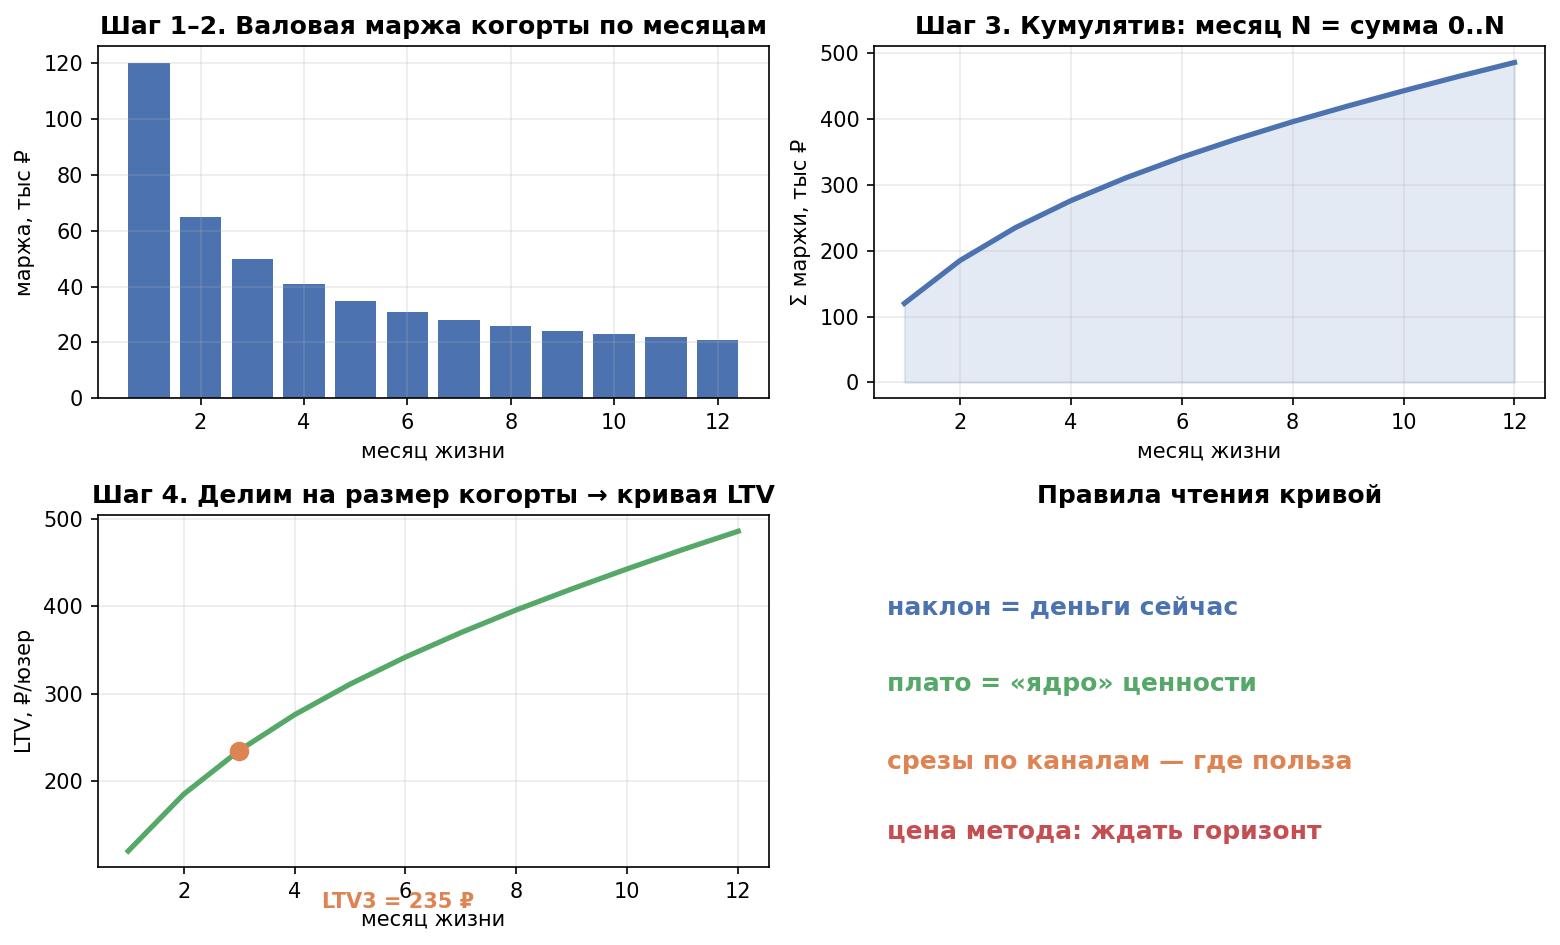
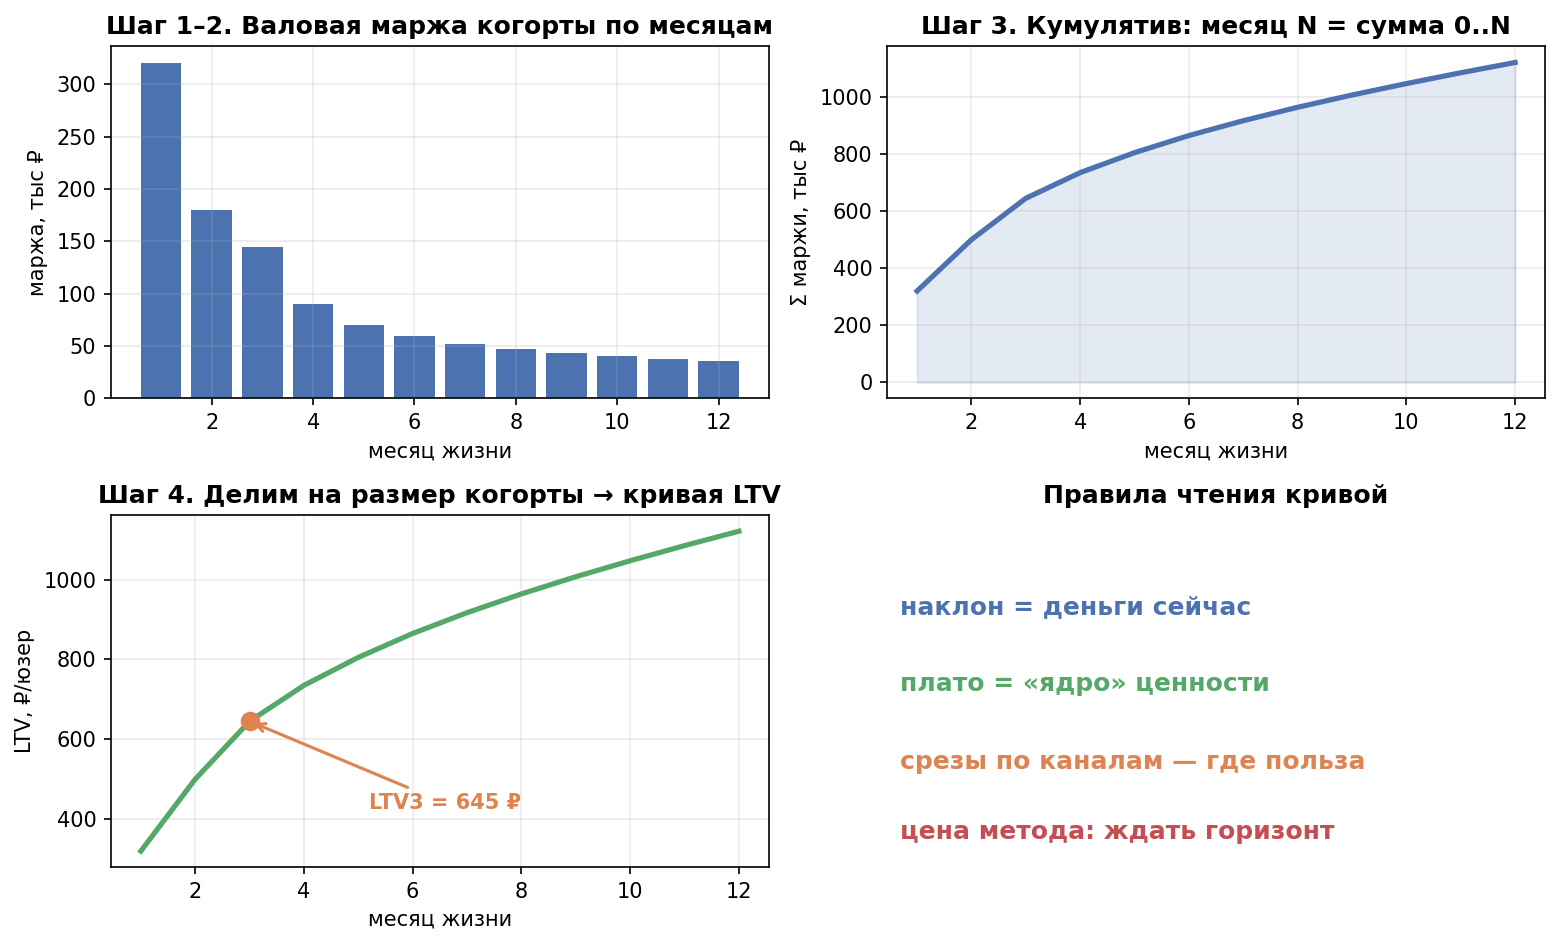
fix(LTV): согласовать числа когортных шагов с рассказом (LTV3=645, LTV12~1120) и убрать наложение аннотации на ось

diff --git a/Драфт/маркетинговая-аналитика/course/modules/M2/make_ltv_story_visuals.py b/Драфт/маркетинговая-аналитика/course/modules/M2/make_ltv_story_visuals.py
@@ -104,7 +104,7 @@ fig.tight_layout(); save(fig, "ltv_story_04_base_vs_cohort.png")
 # 5. Когортный метод за 4 шага
 # ============================================================
 fig, axes = plt.subplots(2, 2, figsize=(10.5, 6.4))
-profit_m = np.array([120, 65, 50, 41, 35, 31, 28, 26, 24, 23, 22, 21])  # тыс ₽ маржи когорты
+profit_m = np.array([320, 180, 145, 90, 70, 60, 52, 47, 43, 40, 38, 36])  # тыс ₽ маржи когорты (LTV3=645, LTV12≈1120)
 n = 1000
 a = axes[0, 0]
 a.bar(np.arange(1, 13), profit_m, color=C_MAIN)
@@ -119,8 +119,9 @@ b.set_xlabel("месяц жизни"); b.set_ylabel("Σ маржи, тыс ₽")
 c = axes[1, 0]
 c.plot(np.arange(1, 13), cum / n * 1000, lw=2.5, color=C_TRUE)
 c.scatter([3], [cum[2] / n * 1000], s=70, color=C_ACC, zorder=5)
-c.annotate(f"LTV3 = {cum[2]} ₽", (3, cum[2]), xytext=(4.5, cum[2] - 180),
-           color=C_ACC, fontweight="bold", fontsize=10)
+c.annotate(f"LTV3 = {cum[2]} ₽", xy=(3, cum[2]), xytext=(5.2, cum[2] - 220),
+           color=C_ACC, fontweight="bold", fontsize=10,
+           arrowprops=dict(arrowstyle="->", color=C_ACC, lw=1.5))
 c.set_title("Шаг 4. Делим на размер когорты → кривая LTV")
 c.set_xlabel("месяц жизни"); c.set_ylabel("LTV, ₽/юзер")
 d = axes[1, 1]
